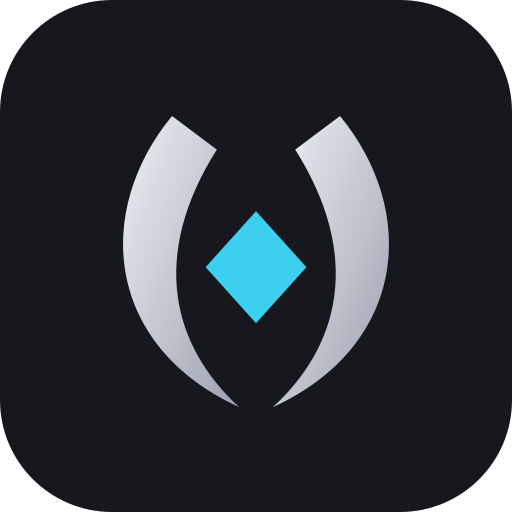
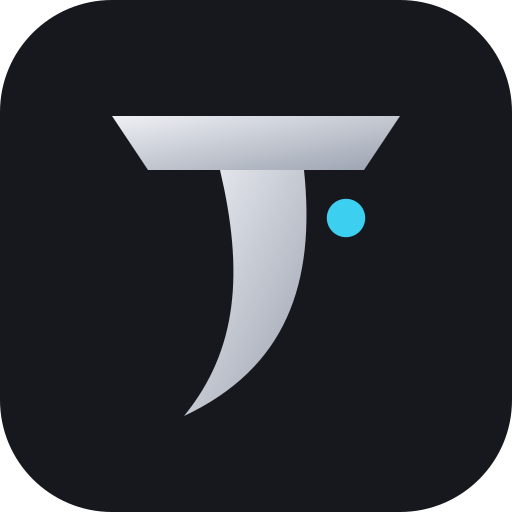
Switch to the T-talon mark, brand the loading screens, rename docs to Talon
- Mark C (a T whose stem hooks into a claw, with a cyan point) replaces
  the gem mark in the header, hero, favicon, app icon and link preview.
- Loading screens show the mark holding on: the claw tightens, the point
  pulses, a slim indigo-to-cyan bar runs underneath, each with its own
  line (live prices, the public record, policies). Motion stops under
  reduced-motion. Policies uses the same mark while it finds contracts.
- README, START-HERE, AGENTS.md and EVIDENCE.md are titled Talon and say
  it is a Scaffold-HBAR template built for the Scaffold-HBAR bounty; the
  scaffold command names the real repository. "Live feeds" becomes
  "Live prices" to match the menu.

Changed region(s): [[0.2188, 0.2188, 0.7812, 0.8125]]

diff --git a/packages/nextjs/styles/globals.css b/packages/nextjs/styles/globals.css
@@ -1210,3 +1210,79 @@ main:focus {
      absent rather than as disabled. */
   color: color-mix(in oklab, var(--color-base-content) 45%, transparent);
 }
+
+/* ===========================================================================
+   TALON LOADER — the mark holding on while a page loads.
+   The claw tightens around its joint with the crossbar, the point pulses,
+   and a slim bar runs underneath. Used by components/PageLoading.tsx.
+   =========================================================================== */
+.talon-animated .talon-claw {
+  transform-box: view-box;
+  transform-origin: 33px 19px; /* where the stem meets the crossbar */
+  animation: talon-grip 1.6s cubic-bezier(0.45, 0, 0.2, 1) infinite;
+}
+.talon-animated .talon-point {
+  transform-box: fill-box;
+  transform-origin: center;
+  animation: talon-pulse 1.6s ease-in-out infinite;
+}
+@keyframes talon-grip {
+  0%,
+  100% {
+    transform: rotate(0deg);
+  }
+  40%,
+  60% {
+    transform: rotate(9deg);
+  }
+}
+@keyframes talon-pulse {
+  0%,
+  100% {
+    opacity: 0.35;
+    transform: scale(0.8);
+  }
+  50% {
+    opacity: 1;
+    transform: scale(1.25);
+  }
+}
+.talon-progress {
+  position: relative;
+  width: 11rem;
+  height: 3px;
+  overflow: hidden;
+  border-radius: 999px;
+  background: var(--color-base-300);
+}
+.talon-progress::after {
+  content: "";
+  position: absolute;
+  inset: 0 auto 0 0;
+  width: 40%;
+  border-radius: inherit;
+  background: linear-gradient(90deg, var(--color-primary), var(--color-accent));
+  animation: talon-run 1.6s ease-in-out infinite;
+}
+@keyframes talon-run {
+  from {
+    transform: translateX(-100%);
+  }
+  to {
+    transform: translateX(260%);
+  }
+}
+@media (prefers-reduced-motion: reduce) {
+  .talon-animated .talon-claw,
+  .talon-animated .talon-point,
+  .talon-progress::after {
+    animation: none;
+  }
+  .talon-animated .talon-point {
+    opacity: 1;
+  }
+  .talon-progress::after {
+    width: 100%;
+    opacity: 0.5;
+  }
+}

diff --git a/packages/nextjs/components/TalonMark.tsx b/packages/nextjs/components/TalonMark.tsx
@@ -1,14 +1,17 @@
 /**
- * The Talon mark: two claws closing around the value they guard.
+ * The Talon mark: a T whose crossbar is the grip and whose stem hooks into a
+ * claw, with a cyan point for the condition it waits on.
  *
- * Inline SVG rather than an <img>, so the claws take the surrounding text
- * colour (`currentColor`) and read correctly in both themes. The gem uses the
- * accent colour. public/talon-mark.svg is the same drawing for the favicon.
+ * Inline SVG rather than an <img>, so the mark takes the surrounding text
+ * colour (`currentColor`) and reads correctly in both themes. The point uses
+ * the accent colour. public/talon-mark.svg is the same drawing for the
+ * favicon. `animated` turns on the loading motion (styles/globals.css): the
+ * claw tightens and the point pulses, and both stop under reduced motion.
  */
-export const TalonMark = ({ className = "h-9 w-9" }: { className?: string }) => (
-  <svg viewBox="0 0 64 64" className={className} aria-hidden="true">
-    <path d="M17 7 C 3 24, 5 48, 29 59 C 17 48, 13 32, 25 13 Z" fill="currentColor" />
-    <path d="M47 7 C 61 24, 59 48, 35 59 C 47 48, 51 32, 39 13 Z" fill="currentColor" />
-    <path d="M32 24 L 41 34 L 32 44 L 23 34 Z" className="fill-accent" />
+export const TalonMark = ({ className = "h-9 w-9", animated = false }: { className?: string; animated?: boolean }) => (
+  <svg viewBox="0 0 64 64" className={`${className}${animated ? " talon-animated" : ""}`} aria-hidden="true">
+    <path className="talon-bar" d="M8 10 H 56 L 50 19 H 14 Z" fill="currentColor" />
+    <path className="talon-claw" d="M26 19 H 40 C 42 38, 37 52, 20 60 C 29 49, 30 36, 26 19 Z" fill="currentColor" />
+    <circle className="talon-point fill-accent" cx="47" cy="27" r="3.2" />
   </svg>
 );

diff --git a/packages/nextjs/app/feeds/page.tsx b/packages/nextjs/app/feeds/page.tsx
@@ -33,7 +33,7 @@ export default async function FeedsPage() {
   if (!("error" in report) && report.feeds.length === 0) {
     return (
       <div className="mx-auto w-full max-w-5xl px-4 py-10">
-        <h1 className="text-3xl font-bold">Live feeds</h1>
+        <h1 className="text-3xl font-bold">Live prices</h1>
         <div role="alert" className="alert alert-warning mt-6">
           <ExclamationTriangleIcon className="h-5 w-5 shrink-0" />
           <div>
@@ -52,7 +52,7 @@ export default async function FeedsPage() {
   if ("error" in report) {
     return (
       <div className="mx-auto w-full max-w-5xl px-4 py-10">
-        <h1 className="text-3xl font-bold">Live feeds</h1>
+        <h1 className="text-3xl font-bold">Live prices</h1>
         <div role="alert" className="alert alert-warning mt-6">
           <ExclamationTriangleIcon className="h-5 w-5 shrink-0" />
           <div>
@@ -74,7 +74,7 @@ export default async function FeedsPage() {
   return (
     <div className="mx-auto w-full max-w-5xl px-4 py-10">
       <header className="mb-8">
-        <h1 className="text-3xl font-bold">Live feeds</h1>
+        <h1 className="text-3xl font-bold">Live prices</h1>
         <p className="mt-2 max-w-3xl text-base-content/70">
           Every Chainlink price feed on Hedera testnet, read from the chain when this page was rendered. No wallet and
           no credentials were involved — this is a JSON-RPC call from the server.

diff --git a/packages/nextjs/components/PageLoading.tsx b/packages/nextjs/components/PageLoading.tsx
@@ -1,17 +1,27 @@
+import { TalonMark } from "~~/components/TalonMark";
+
+/**
+ * The Talon loading screen: the claw tightens, the point pulses, a slim bar
+ * runs underneath. Server-renderable, CSS-only motion (styles/globals.css),
+ * and still under prefers-reduced-motion.
+ */
 export function PageLoading({
-  title = "Loading page",
-  description = "Please wait while this page is prepared.",
+  title = "Getting a grip",
+  description = "Loading the page.",
 }: {
   title?: string;
   description?: string;
 }) {
   return (
-    <div className="mx-auto w-full max-w-5xl px-4 py-10" role="status" aria-live="polite">
-      <div className="flex items-center gap-3">
-        <span className="loading loading-spinner loading-md text-primary" aria-hidden="true" />
-        <h1 className="text-2xl font-bold">{title}</h1>
-      </div>
-      <p className="mt-3 text-base-content/80">{description}</p>
+    <div
+      className="mx-auto flex w-full max-w-md flex-1 flex-col items-center justify-center px-4 py-24 text-center"
+      role="status"
+      aria-live="polite"
+    >
+      <TalonMark animated className="h-16 w-16 text-base-content" />
+      <p className="mt-6 text-lg font-semibold">{title}</p>
+      <p className="mt-1.5 text-sm text-base-content/65">{description}</p>
+      <div className="talon-progress mt-6" aria-hidden="true" />
     </div>
   );
 }

diff --git a/packages/nextjs/app/policies/_components/PolicyFlow.tsx b/packages/nextjs/app/policies/_components/PolicyFlow.tsx
@@ -6,6 +6,7 @@ import { PolicyForm } from "./PolicyForm";
 import { WithdrawPanel } from "./WithdrawPanel";
 import { HederaPortalFaucet } from "@scaffold-hbar-ui/components";
 import { useAccount } from "wagmi";
+import { TalonMark } from "~~/components/TalonMark";
 import { RainbowKitCustomConnectButton } from "~~/components/scaffold-hbar";
 import { useDeployedContractInfo, useScaffoldReadContract } from "~~/hooks/scaffold-hbar";
 import { useTargetNetwork } from "~~/hooks/scaffold-hbar/useTargetNetwork";
@@ -41,7 +42,12 @@ export const PolicyFlow = () => {
   });
 
   if (registryLoading) {
-    return <div className="skeleton h-40 w-full" />;
+    return (
+      <div className="flex items-center gap-3 rounded-box border border-base-300 p-6" role="status">
+        <TalonMark animated className="h-8 w-8 text-base-content" />
+        <span className="text-sm text-base-content/70">Finding the contracts on Hedera testnet…</span>
+      </div>
+    );
   }
 
   // Nothing deployed on this network. Say which network and what to run.

diff --git a/packages/nextjs/app/blockexplorer/page.tsx b/packages/nextjs/app/blockexplorer/page.tsx
@@ -73,13 +73,13 @@ const BlockExplorer: NextPage = () => {
           </div>
 
           <div>
-            <h3 className="text-sm font-semibold mb-1.5">The live feeds</h3>
+            <h3 className="text-sm font-semibold mb-1.5">Live prices</h3>
             <p className="text-xs opacity-60 mb-2">
               The seven Chainlink feeds this kit can settle against, read from the chain on load, with the age each is
               reporting against the bound enforced for it.
             </p>
             <Link href="/feeds" className="link link-hover text-sm text-primary">
-              Open the feed reader →
+              See live prices →
             </Link>
           </div>
         </div>

diff --git a/packages/nextjs/app/evidence/loading.tsx b/packages/nextjs/app/evidence/loading.tsx
@@ -2,6 +2,6 @@ import { PageLoading } from "~~/components/PageLoading";
 
 export default function Loading() {
   return (
-    <PageLoading title="Fetching evidence" description="Reading the public settlement trail from Hedera testnet." />
+    <PageLoading title="Reading the public record" description="Fetching evidence from Hedera's consensus service." />
   );
 }

diff --git a/packages/nextjs/app/feeds/loading.tsx b/packages/nextjs/app/feeds/loading.tsx
@@ -1,5 +1,5 @@
 import { PageLoading } from "~~/components/PageLoading";
 
 export default function Loading() {
-  return <PageLoading title="Fetching live feeds" description="Reading the latest prices from Hedera testnet." />;
+  return <PageLoading title="Checking live prices" description="Reading the latest Chainlink prices on Hedera." />;
 }

diff --git a/packages/nextjs/app/policies/loading.tsx b/packages/nextjs/app/policies/loading.tsx
@@ -1,0 +1,5 @@
+import { PageLoading } from "~~/components/PageLoading";
+
+export default function Loading() {
+  return <PageLoading title="Opening policies" description="Loading the contracts on Hedera testnet." />;
+}

diff --git a/README.md b/README.md
@@ -1,6 +1,13 @@
-# Conditional Settlement Kit
+# Talon
 
-A Scaffold-HBAR template for **price-triggered HBAR escrow on Hedera testnet**.
+**Holds until it's true.** Lock HBAR into a promise that pays out
+automatically when a price hits its target, or returns to the creator if it
+doesn't.
+
+Talon is a [Scaffold-HBAR](https://github.com/hashgraph/scaffold-hbar)
+template, built as an entry to the
+[Scaffold-HBAR template bounty](https://hedera.com/blog/scaffold-hbar-template-bounty/),
+for **price-triggered HBAR escrow on Hedera testnet**.
 A creator defines a beneficiary, payout, price threshold and deadline, then
 funds the policy. Anyone can submit a settlement transaction when the latest
 accepted oracle reading meets the condition. After expiry, anyone can mark the
@@ -64,7 +71,8 @@ implemented; `IPriceSource` is the extension point.
 
 ## Suggested demo journey
 
-1. **Home:** understand the escrow lifecycle and its intended checks.
+1. **Home and How it works:** the one-sentence pitch, then the full lifecycle,
+   an FAQ, and the guarantees with their tests.
 2. **Feeds:** inspect live readings and configured freshness limits. Each
    parallel RPC read has a 15-second deadline, including its response body.
    Healthy feeds remain visible if others fail. A total outage shows the
@@ -280,17 +288,16 @@ apply machine-specific workarounds only after reproducing their symptoms.
 
 ## External template and submission
 
-Once the owner chooses to publish a public repository, consumers can scaffold
-from it by replacing `OWNER/REPOSITORY` in this command:
+Talon is a Scaffold-HBAR template: with the repository public, a new project
+can be scaffolded from it with:
 
 ```sh
-npm create scaffold-hbar@latest -- --template OWNER/REPOSITORY
+npm create scaffold-hbar@latest -- --template da-b0s/conditional-settlement-kit
 ```
 
-This is a future publication step, not a working reference to a published copy
-of this local project. Verify the actual scaffold output and repeat install,
-lint, build and route checks from that fresh copy before submission.
-The manifest is [template.json](template.json).
+Verify the scaffold output and repeat install, lint, build and route checks
+from that fresh copy before submission. The manifest is
+[template.json](template.json).
 
 Harness configuration is in [.harness](.harness/). Run its configured checks with:
 

diff --git a/AGENTS.md b/AGENTS.md
@@ -5,7 +5,8 @@ Claude Code loads it through `CLAUDE.md`.
 
 ## Project overview
 
-This is the **Conditional Settlement Kit**: a scaffold-hbar template for
+This is **Talon** (repository `conditional-settlement-kit`): a scaffold-hbar
+template, and a Scaffold-HBAR bounty entry, for
 price-triggered settlement. Escrow a payout, attach it to a price condition,
 and let anyone settle it once the condition holds.
 
@@ -60,7 +61,7 @@ yarn evidence:topic
 | Deploy | `packages/hardhat/deploy/` | Verifies its own wiring. See below. |
 | Contract tests | `packages/hardhat/test/` | One file per invariant, named for it. |
 | **Core library** | `packages/nextjs/lib/settlement/` | **Framework-free. See below.** |
-| Routes | `packages/nextjs/app/` | `/`, `/feeds`, `/evidence`, `/policies`, `/debug`, `/blockexplorer`. |
+| Routes | `packages/nextjs/app/` | `/`, `/how-it-works`, `/feeds`, `/evidence`, `/policies`, `/debug`, `/blockexplorer`. |
 | The invariants | `packages/nextjs/lib/settlement/invariants.ts` | The contract. Read it first. |
 
 ## The rules that matter

diff --git a/START-HERE.md b/START-HERE.md
@@ -1,6 +1,7 @@
 # Start here
 
-This template demonstrates price-triggered HBAR escrow on Hedera testnet.
+Talon demonstrates price-triggered HBAR escrow on Hedera testnet. It is a
+Scaffold-HBAR template, built for the Scaffold-HBAR template bounty.
 Start with the read-only pages; wallet transactions and operator setup can wait.
 
 ## 1. Run the frontend
@@ -23,7 +24,8 @@ Stop the server with Ctrl+C.
 
 | Page | What to check |
 | --- | --- |
-| Home | Price-triggered escrow lifecycle |
+| Home | What Talon does, in one sentence |
+| How it works | The lifecycle, an FAQ and the guarantees |
 | Feeds | Live prices, reading ages and configured freshness limits |
 | Evidence | Opens on topic `0.0.10752744`, the recorded demo trail |
 | Policies | Review the flow; connect a funded testnet wallet when ready to transact |
